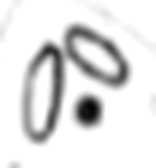
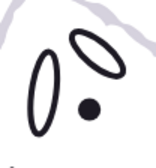
고양이 도안: 기호를 깔끔하게 다시 그린 도안 추가, 원본 이미지 제거
- 다시 그린 도안(images/cat-redraw.svg): 원본에서 잰 좌표로 X·TTT·선·귀·점·소용돌이·모서리를 선으로 다시 그림
  (모티브 9개 위치는 상호상관으로 측정, 가운데 줄 TTT는 줄기 길이가 달라 따로 측정)
- 원본은 받은 이미지 대신 그것을 따라 그린 벡터(images/cat-vector.svg)로 표시
- 원본/다시 그린 도안 전환과 확대를 이미지 위 버튼으로 이동
- 기호 읽기용 작은 그림을 다시 그린 도안에서 잘라 선명하게

Claude-Session: https://claude.ai/code/session_01YZTsCY1SVKzQrx3iH4gYHc

diff --git a/js/cat.js b/js/cat.js
@@ -1,9 +1,10 @@
 // ---------- 고양이 얼굴 모티브 도안 (무늬 상세 안에 표시) ----------
-// 첨부 원본 이미지(images/cat-chart.png)를 그대로 쓰고, 이미지에서 읽히는 것만 적어요.
+// 원본: 받은 이미지를 선 하나하나 따라 그린 벡터(images/cat-vector.svg)
+// 다시 그린 도안: 원본에서 잰 위치에 기호를 깔끔한 선으로 다시 그린 것(images/cat-redraw.svg)
 // sure: false 인 항목은 해석이 불확실하다는 표시예요.
 const CAT = {
-  notice: "원본 이미지와, 원본을 그대로 따라 그린 도안을 함께 실었어요. 아래 설명은 이미지에서 읽히는 것만 적었고, 확실하지 않은 해석은 '불확실'로 표시했어요. 코 수나 단 설명이 적힌 원문이 있다면 그쪽을 우선해 주세요.",
-  img: "images/cat-chart.png", vec: "images/cat-vector.svg",
+  notice: "기본은 기호를 깔끔하게 다시 그린 도안이고, 이미지 위 버튼으로 원본(받은 도안을 그대로 따라 그린 벡터)과 바꿔 볼 수 있어요. 아래 설명은 이미지에서 읽히는 것만 적었고, 확실하지 않은 해석은 '불확실'로 표시했어요. 코 수나 단 설명이 적힌 원문이 있다면 그쪽을 우선해 주세요.",
+  orig: "images/cat-vector.svg", redraw: "images/cat-redraw.svg",
   legend: [
     { img: "ring",   name: "매직링", look: "가운데 소용돌이", mean: "얼굴이 시작되는 자리예요. 사방으로 뻗는 기호가 모두 이 고리에서 나와요.", sure: true },
     { img: "spoke",  name: "사방으로 뻗은 긴 선", look: "끝에 가로선(T)이 있고, 사선이 있는 것도 없는 것도 있어요", mean: "매직링에서 뻗는 코예요. 사선이 한 줄 있으면 한길긴뜨기, 사선 없이 가로선만 있으면 중간뜨기로 읽혀요. 옆쪽 코가 더 길게 그려져 있어요.", sure: false },
@@ -33,18 +34,15 @@ const CAT = {
   ]
 };
 
-const catUI = { v: "vec", zoom: false };
+const catUI = { v: "redraw", zoom: false };
 function catBlockHTML() {
-  const src = catUI.v === "vec" ? CAT.vec : CAT.img;
+  const red = catUI.v !== "orig", src = red ? CAT.redraw : CAT.orig;
   return `<section class="cat-block" id="cat-block" aria-labelledby="cat-h">
-    <h4 id="cat-h">고양이 얼굴 도안</h4>
-    <div class="seg cat-seg" role="group" aria-label="도안 보기">
-      <button type="button" data-catv="vec" aria-pressed="${catUI.v === "vec"}">다시 그린 도안</button>
-      <button type="button" data-catv="img" aria-pressed="${catUI.v === "img"}">원본 이미지</button>
-    </div>
-    <figure class="cat-fig"><div class="cat-scroll"><img id="cat-img" class="${catUI.zoom ? "big" : ""}" src="${src}" alt="고양이 얼굴 모티브 9장을 3×3으로 이은 도안 (${catUI.v === "vec" ? "다시 그린 도안" : "원본 이미지"})"></div>
-      <figcaption><button type="button" class="ghost-btn" data-cat-zoom>${catUI.zoom ? "작게 보기" : "크게 보기"}</button>
-        <span>${catUI.v === "vec" ? "원본을 선 하나하나 따라 그린 벡터예요. 확대해도 깨지지 않아요. 캡처 아이콘에 가려진 부분(오른쪽 X 4개, 오른쪽 아래 모서리)은 대칭으로 복원했어요." : "받은 원본 그대로예요. 오른쪽 아래에 캡처 화면의 확대·돋보기 아이콘이 겹쳐 있어요."}</span></figcaption></figure>
+    <h4 id="cat-h">고양이 얼굴 도안 · ${red ? "다시 그린 도안" : "원본"}</h4>
+    <figure class="cat-fig"><div class="cat-stage"><div class="cat-scroll"><img id="cat-img" class="${catUI.zoom ? "big" : ""}" src="${src}" alt="고양이 얼굴 모티브 9장을 3×3으로 이은 도안 (${red ? "다시 그린 도안" : "원본"})"></div>
+        <button type="button" class="cat-ov cat-ov-v" data-catv="${red ? "orig" : "redraw"}">${red ? "원본 보기" : "다시 그린 도안 보기"}</button>
+        <button type="button" class="cat-ov cat-ov-z" data-cat-zoom aria-label="${catUI.zoom ? "작게 보기" : "크게 보기"}">${catUI.zoom ? "−" : "＋"}</button></div>
+      <figcaption>${red ? "원본에서 잰 위치에 기호를 깔끔한 선으로 다시 그렸어요. 캡처 아이콘에 가려졌던 오른쪽 X와 오른쪽 아래 모서리는 대칭으로 채웠어요." : "받은 도안을 선 하나하나 그대로 따라 그린 원본이에요. 확대해도 깨지지 않아요."}</figcaption></figure>
     <div class="notice">${CAT.notice}</div>
     <details class="cat-fold"><summary>도안 속 기호 읽기 (${CAT.legend.length})</summary>
       <ul class="cat-legend">${CAT.legend.map(x => `<li><img class="lg-img" src="images/sym-${x.img}.png" alt="${esc(x.name)} 기호"><span><b>${x.name}</b>${x.sure ? "" : '<em class="unsure">불확실</em>'}<small>${x.look}</small><span class="lg-mean">${x.mean}</span></span></li>`).join("")}</ul></details>

diff --git a/js/progress.js b/js/progress.js
@@ -9,7 +9,7 @@ function ctrViews(s, rx) {
 }
 function ctrChartBody(s, rx, info) {
   const done = info.done, hi = done ? -1 : info.hi;
-  if (s.pid === "cat") return `<div class="cchart"><div class="cchart-card"><img class="cat-mini" src="${CAT.vec}" alt="고양이 얼굴 도안"></div><p class="cc-cap">단계 목록은 '단계' 보기에서, 기호 뜻은 무늬 상세의 도안에서 볼 수 있어요.</p></div>`;
+  if (s.pid === "cat") return `<div class="cchart"><div class="cchart-card"><img class="cat-mini" src="${CAT.redraw}" alt="고양이 얼굴 도안 (다시 그린 도안)"></div><p class="cc-cap">단계 목록은 '단계' 보기에서, 기호 뜻은 무늬 상세의 도안에서 볼 수 있어요.</p></div>`;
   if (rx.chart) return `<div class="kchart"><div class="chart-scroll">${chartHTML(rx.chart, chartHexes(s.cols), hi, labelsFor(s.cols))}</div><p class="cc-cap">${hi >= 0 ? `지금은 ${hi + 1}번 줄이에요. 초록 ✓ = 다 뜬 줄, 보라 = 지금 줄, 흐림 = 아직이에요.` : "겉면에서 본 모양, 아래에서 위로 읽어요."}</p></div>`;
   if (s.craft === "crochet") { const h = crochetChartHTML(s.pid, s.cols, done ? -1 : s.row); if (h) return h; }
   return `<div class="empty-chart">이 무늬는 기호 도안이 없어요. 아래 '도안 전체 보기'를 따라 떠 주세요.</div>`;

diff --git a/css/guide.css b/css/guide.css
@@ -91,3 +91,9 @@
 .sym-top .g-chips { margin: 0; padding-bottom: 2px; }
 .sym-top .g-chip { background: #1B1726; border-color: #2E2842; }
 .sym-top .g-chip[aria-pressed="true"] { background: var(--accent); border-color: var(--accent); }
+
+/* 고양이 도안: 이미지 위 전환·확대 버튼 */
+.cat-stage { position: relative; }
+.cat-ov { position: absolute; border: 1px solid rgba(29, 26, 36, .25); background: rgba(255, 255, 255, .92); color: #1d1a24; font-weight: 700; border-radius: 999px; box-shadow: 0 2px 8px rgba(0, 0, 0, .25); }
+.cat-ov-v { top: 10px; right: 10px; padding: 7px 14px; font-size: 13px; }
+.cat-ov-z { bottom: 10px; right: 10px; width: 40px; height: 40px; font-size: 20px; line-height: 1; }
